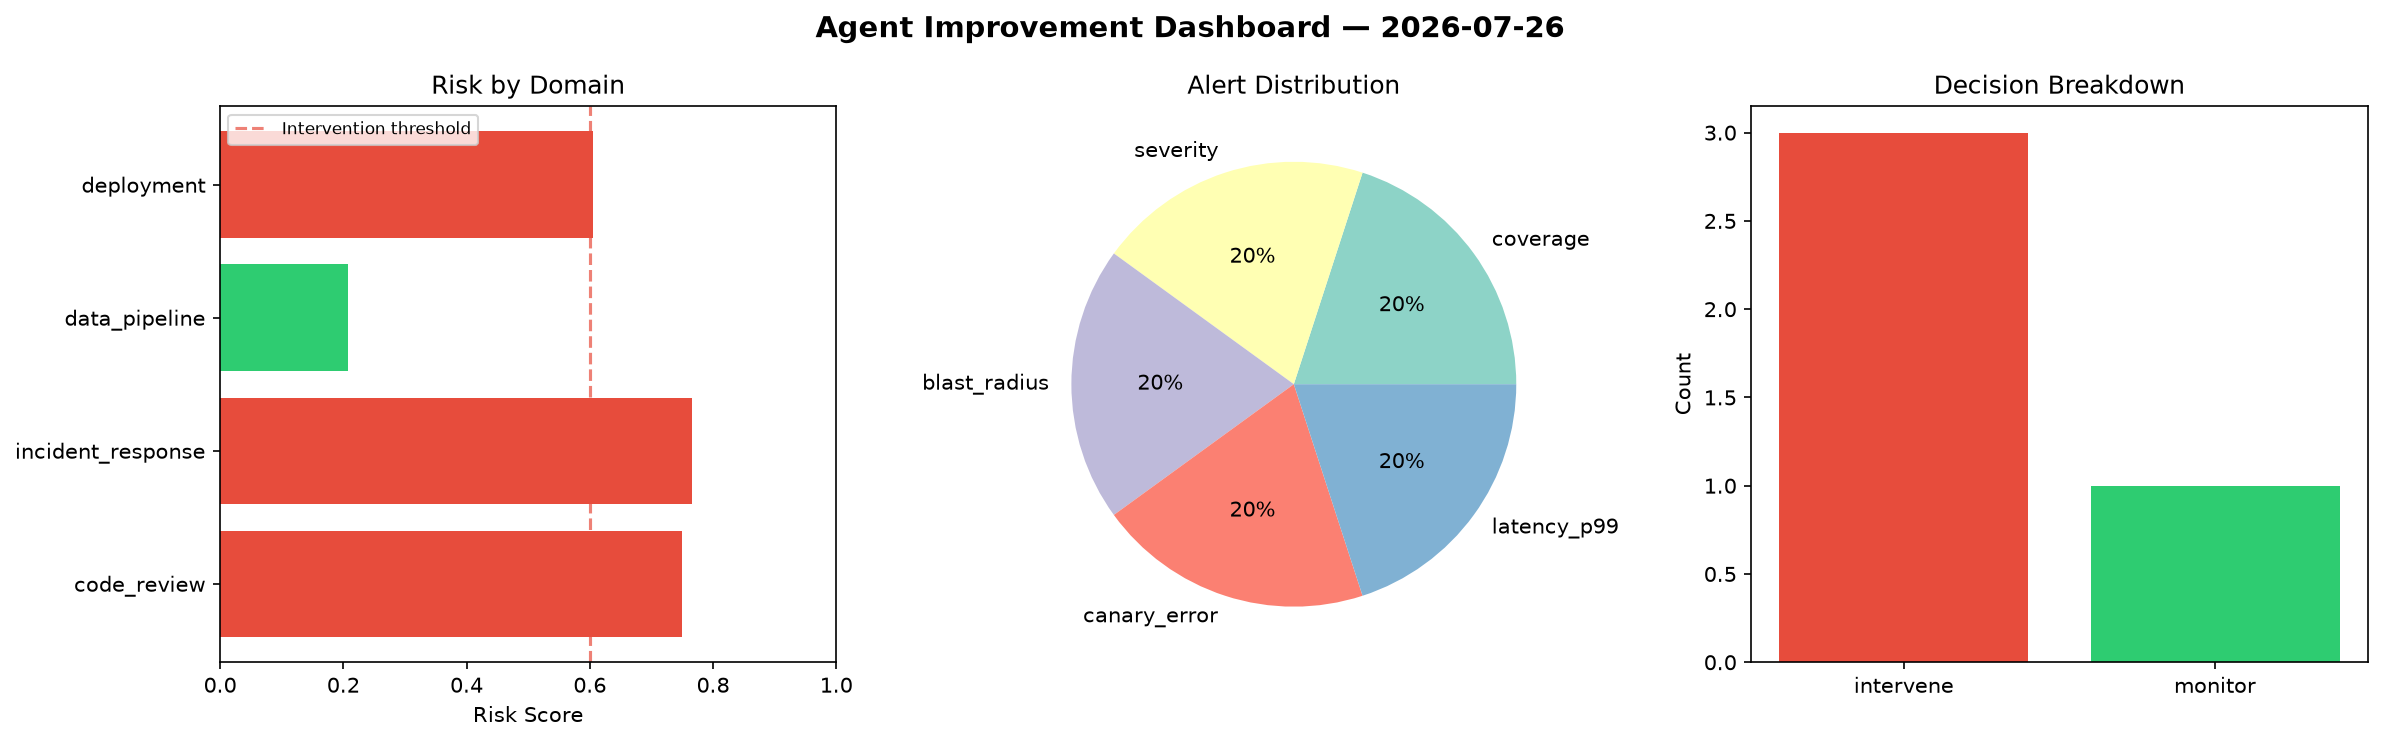
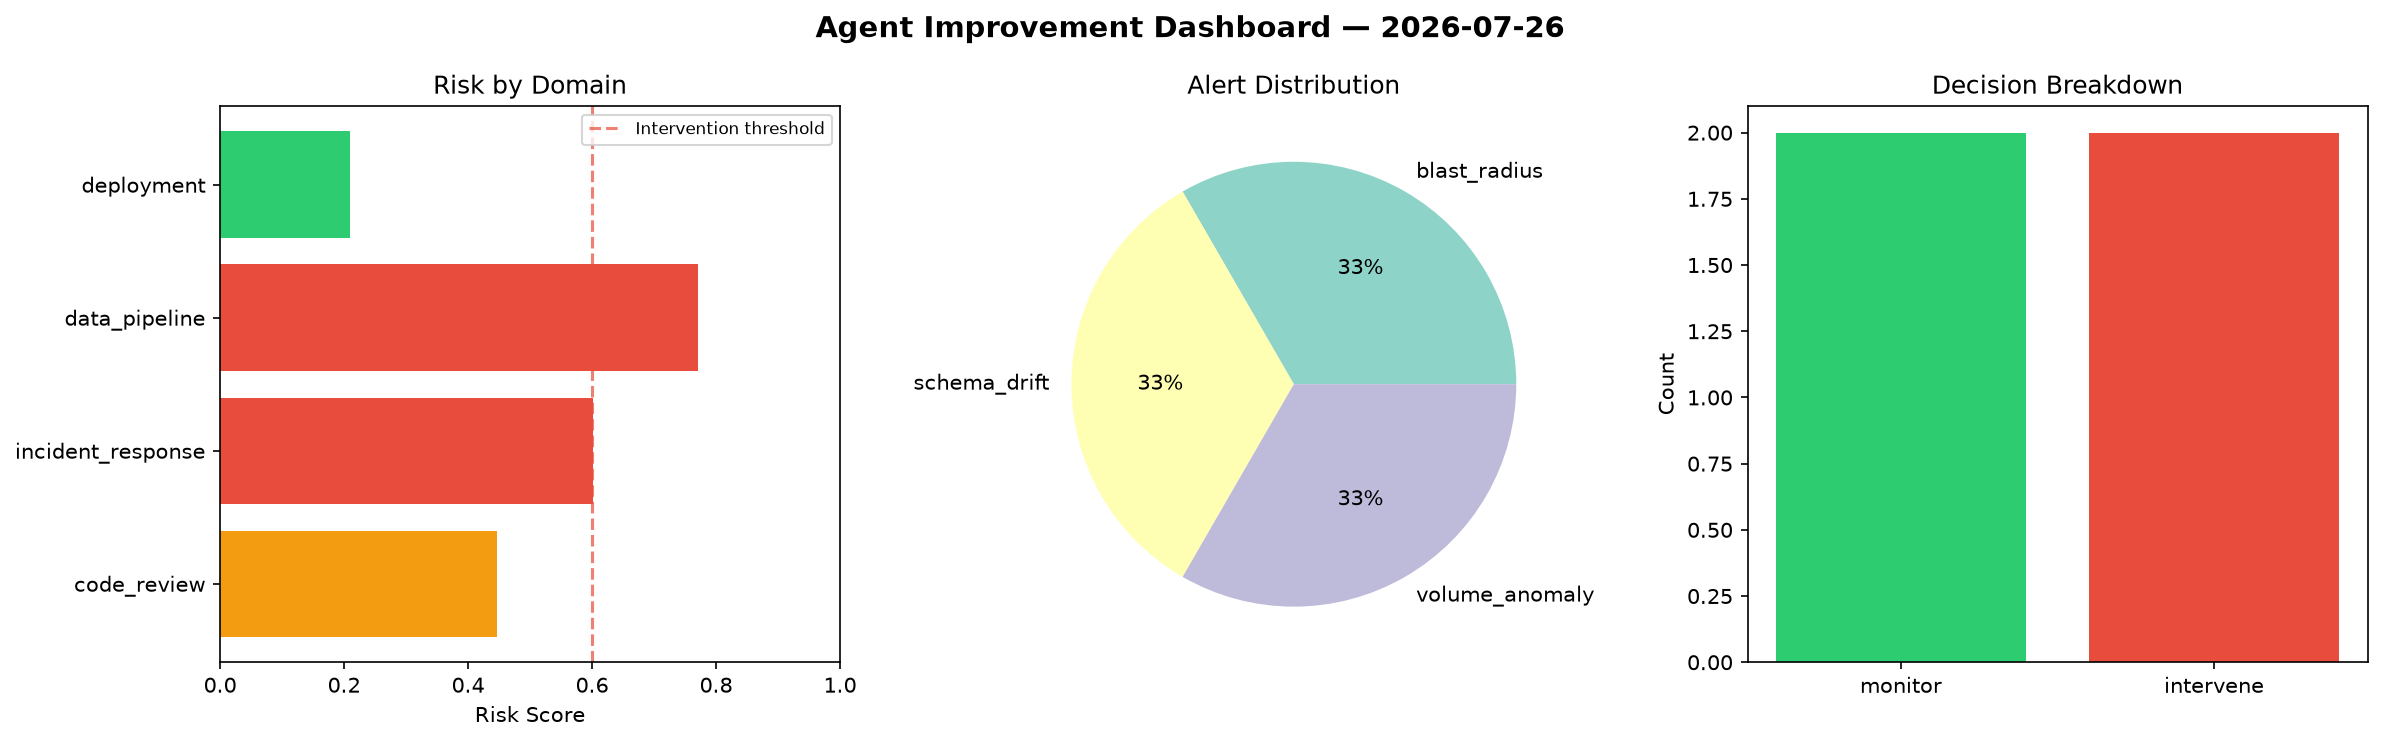
agent-improvement: daily cycle 2026-07-26T15:30

diff --git a/logs/2026-07-26.md b/logs/2026-07-26.md
@@ -1,6 +1,6 @@
 # Agent Improvement Report — 2026-07-26
 
-**Cycle ID:** `9c187f3d` | **Avg Risk:** 0.5817 | **Interventions:** 3/4
+**Cycle ID:** `b17d8b0e` | **Avg Risk:** 0.5073 | **Interventions:** 2/4
 
 ![Dashboard](2026-07-26_dashboard.png)
 
@@ -10,18 +10,18 @@
 
 | Domain | Risk Score | Decision | Alerts |
 |--------|-----------|----------|--------|
-| code_review | 0.7493 | intervene | coverage |
-| incident_response | 0.7659 | intervene | severity, blast_radius |
-| data_pipeline | 0.2072 | monitor | none |
-| deployment | 0.6045 | intervene | canary_error, latency_p99 |
+| code_review | 0.4459 | monitor | none |
+| incident_response | 0.602 | intervene | blast_radius |
+| data_pipeline | 0.771 | intervene | schema_drift, volume_anomaly |
+| deployment | 0.2102 | monitor | none |
 
 ## Delta vs Yesterday
 
 | Domain | Today | Yesterday | Change |
 |--------|-------|-----------|--------|
-| code_review | 0.7493 | 0.8827 | 📉 -15.1% |
-| incident_response | 0.7659 | 0.5617 | 📈 36.4% |
-| data_pipeline | 0.2072 | 0.7518 | 📉 -72.4% |
-| deployment | 0.6045 | 0.1928 | 📈 213.5% |
+| code_review | 0.4459 | 0.8827 | 📉 -49.5% |
+| incident_response | 0.602 | 0.5617 | 📈 7.2% |
+| data_pipeline | 0.771 | 0.7518 | 📈 2.6% |
+| deployment | 0.2102 | 0.1928 | 📈 9.0% |
 
 **Refinement:** `{'adjustment': 'maintain', 'trend': 'improving', 'window': 4}`
